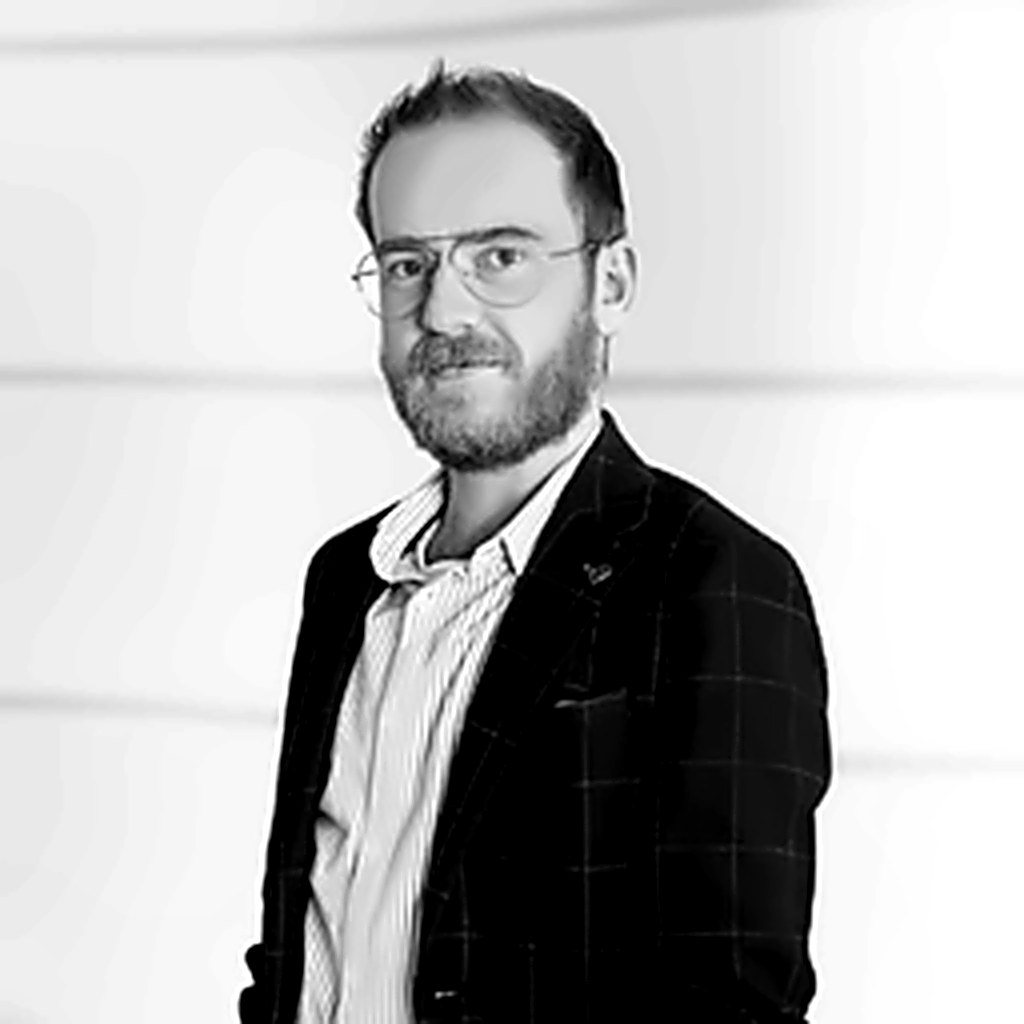
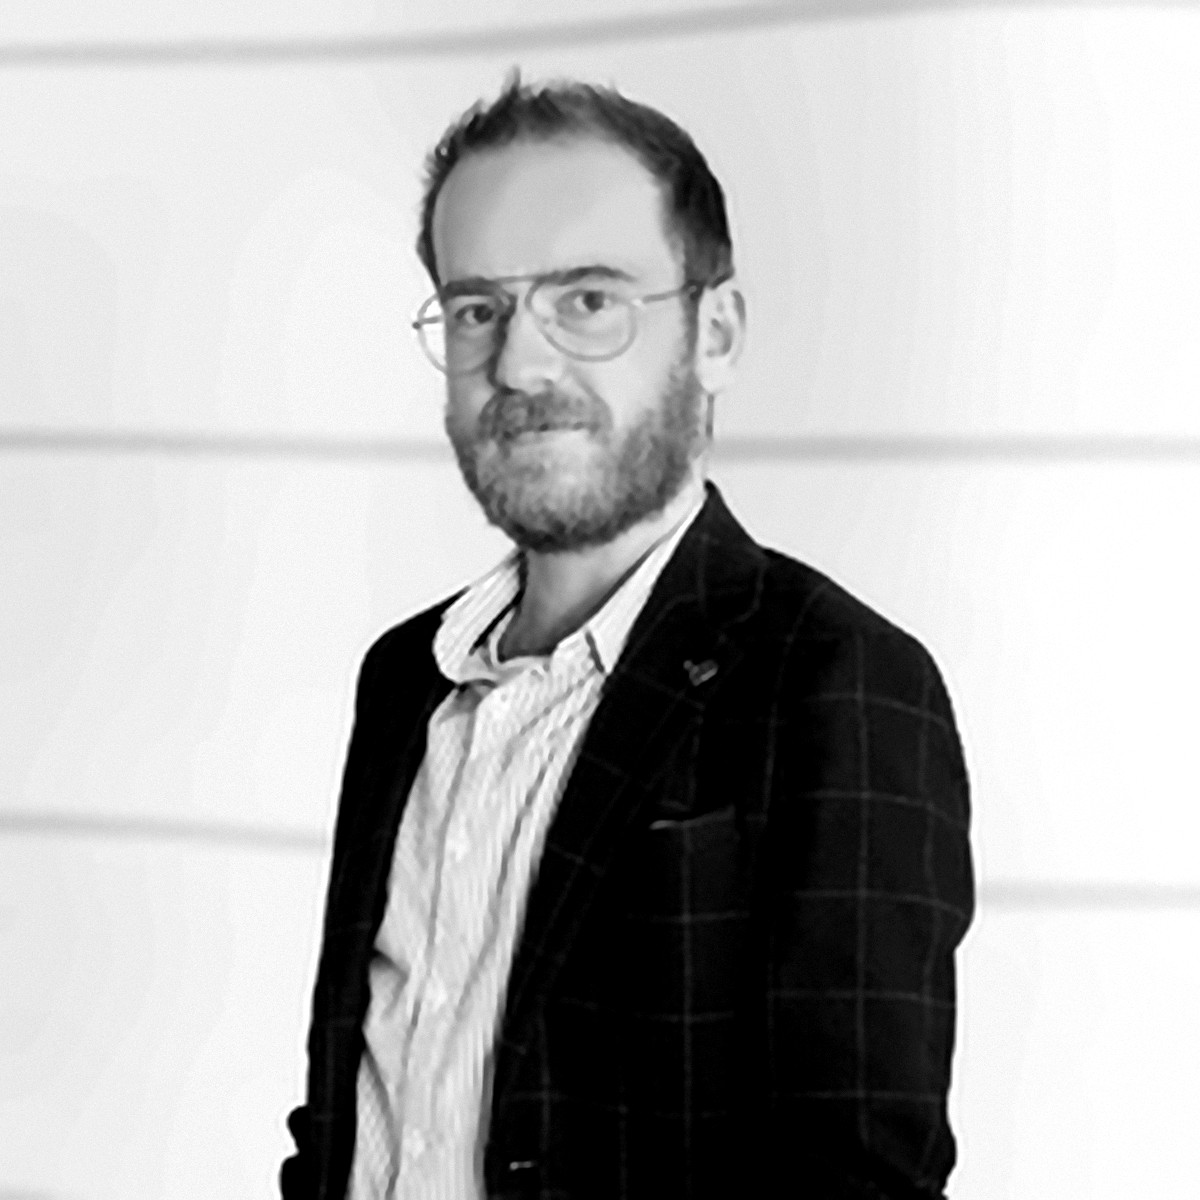
Hover-Effekt bei Leistungen (invertiert) und hochwertigeres Portraitfoto
Claude-Session: https://claude.ai/code/session_0174GQnV93nDwYV4GAdpog9p

diff --git a/style.css b/style.css
@@ -52,10 +52,13 @@ section{border-top:1px solid var(--ink)}
 .section h2{font-size:clamp(36px,5vw,64px)}
 .stack{display:flex;flex-direction:column;gap:56px}
 .cards{display:flex;flex-wrap:wrap;gap:24px}
-.card{flex:1 1 320px;border:1px solid var(--ink);padding:32px;display:flex;flex-direction:column;gap:12px}
+.card{flex:1 1 320px;border:1px solid var(--ink);padding:32px;display:flex;flex-direction:column;gap:12px;background:var(--paper);color:var(--ink);transition:background-color .2s ease,color .2s ease}
+.card:hover{background:var(--ink);color:var(--paper)}
 .card .no{font-size:14px;font-weight:700;letter-spacing:.2em}
 .card h3{font-size:24px;letter-spacing:-0.01em;line-height:1.2}
-.card p{color:var(--muted)}
+.card p{color:var(--muted);transition:color .2s ease}
+.card:hover p{color:var(--paper)}
+@media (prefers-reduced-motion:reduce){.card,.card p{transition:none}}
 .two{display:flex;flex-wrap:wrap;gap:48px}
 .two>*{flex:1 1 360px}
 .text{display:flex;flex-direction:column;gap:20px;font-size:18px;color:var(--muted)}
